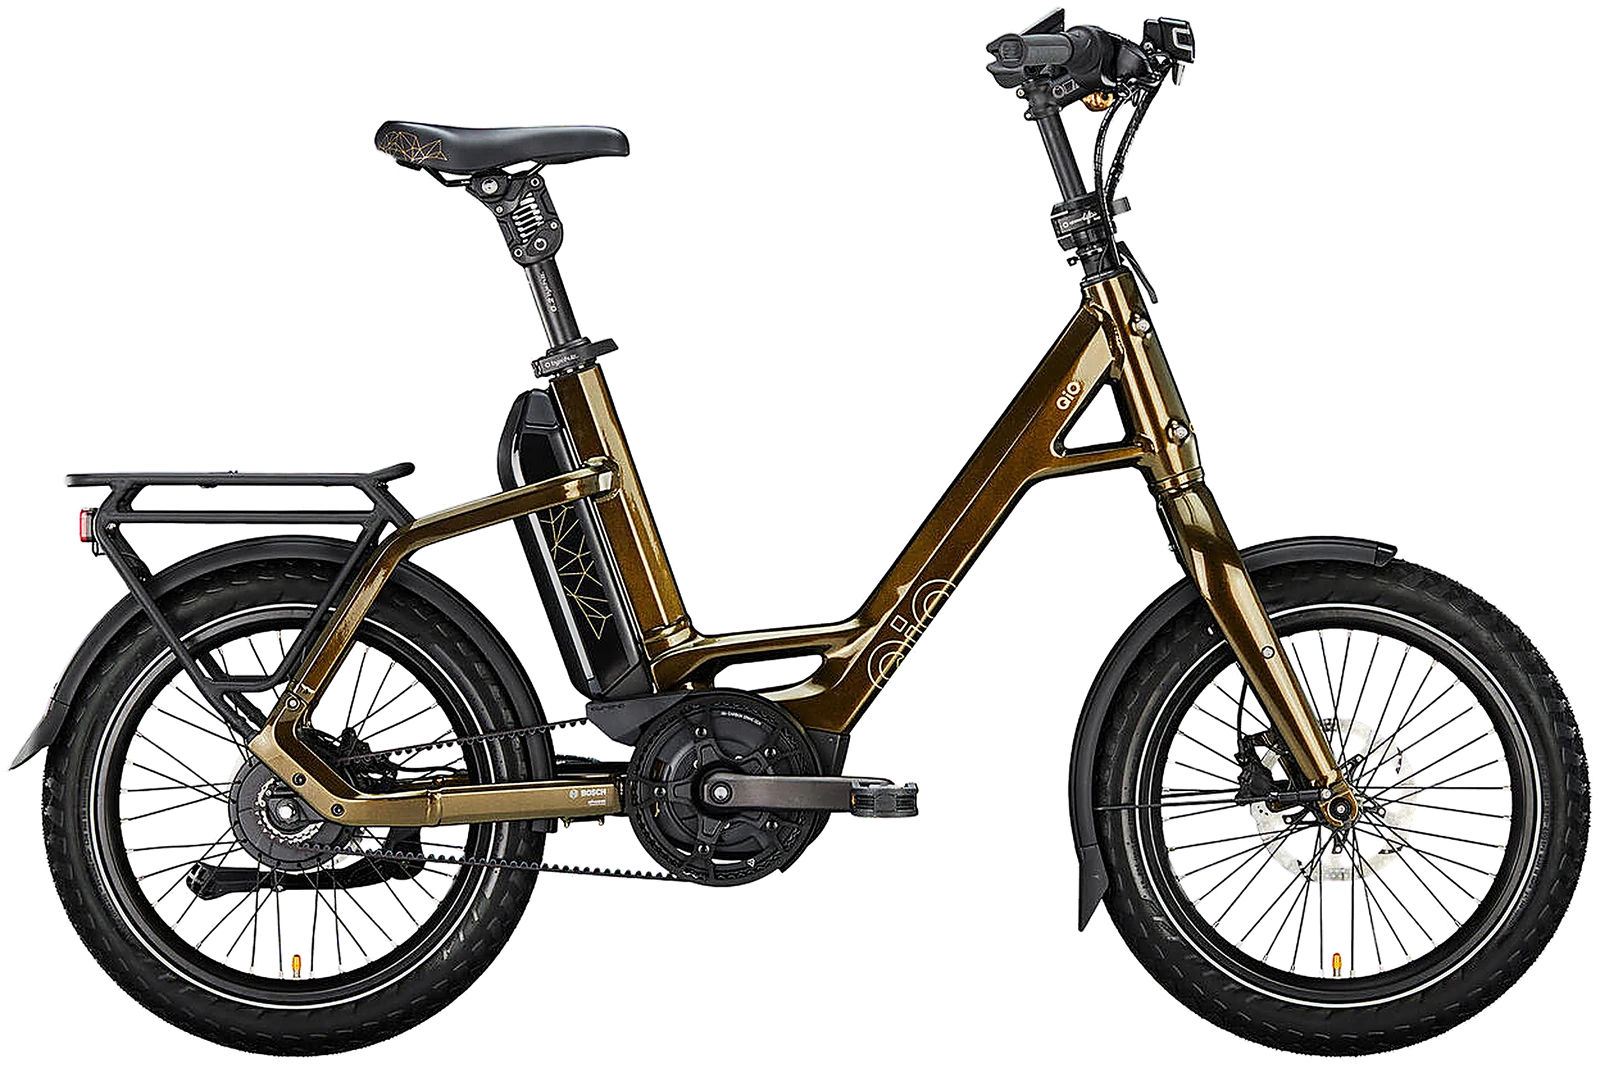
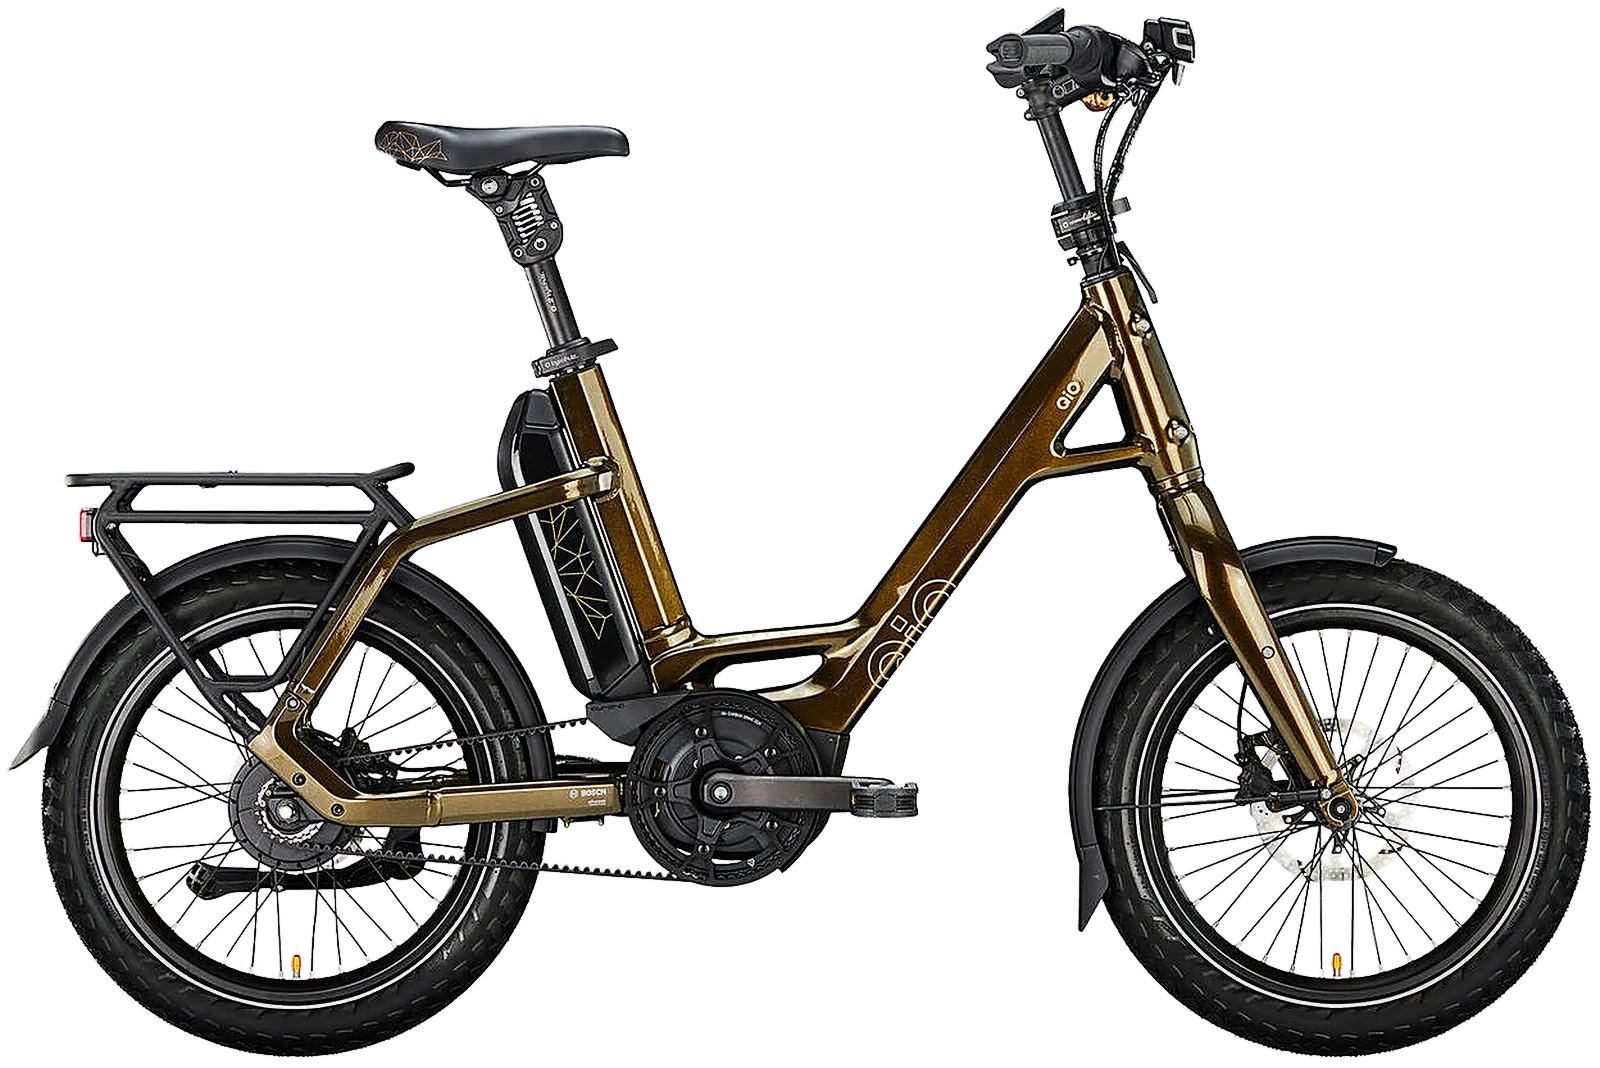
Homepage: Velo de Ville AEB PRO im Showroom, Showroom-Bilder bereinigt
Claude-Session: https://claude.ai/code/session_01AC3hVdMMJayFA5k58UgPiU

diff --git a/velocenter-homepage/index.html b/velocenter-homepage/index.html
@@ -2215,7 +2215,7 @@ m696 -454 c28 -13 46 -31 55 -51 22 -53 -50 -177 -173 -300 -187 -186 -647
      <img class="hb" src="img/p-isy.webp" alt="i:SY E-Kompaktrad" data-l="img/marke-isy.svg" width="1600" height="1104">
      <img class="hb off" src="img/p-ktm.webp" alt="KTM Macina E-Bike" data-l="img/marke-ktm.svg" width="1600" height="1006" loading="lazy">
      <img class="hb off" src="img/p-qio-eins-fineline.webp" alt="QiO EINS P-E Fine Line E-Kompaktrad" data-l="img/marke-qio.svg" width="1600" height="1068" loading="lazy">
-     <img class="hb off" src="img/p-vdv.webp" alt="Velo de Ville SEB Pro E-Bike" data-l="img/marke-vdv.svg" width="1463" height="899" loading="lazy">
+     <img class="hb off" src="img/p-vdv-aebpro.webp" alt="Velo de Ville AEB PRO E-Bike in French Lavender" data-l="img/marke-vdv.svg" width="2148" height="1344" loading="lazy">
      <img class="hb off" src="img/p-vanraam.webp" alt="Van Raam Easy Rider E-Dreirad" data-l="img/marke-vanraam.svg" width="1600" height="1193" loading="lazy">
      <img class="hb off" src="img/p-gudereit.webp" alt="Gudereit EC-35 Evo E-Bike" data-l="img/marke-gudereit.svg" width="1600" height="1128" loading="lazy">
      <img class="hb off" src="img/p-victoria-veloa7.webp" alt="Victoria Veloa 7 E-Bike" data-l="img/marke-victoria.svg" width="1385" height="866" loading="lazy">
@@ -2878,7 +2878,7 @@ const BR=[
  {k:'isy',n:'i:SY',m:'i:SY E5 ZR F CX Century',img:'img/p-isy.webp',logo:'img/marke-isy.svg',o:.3,c:'#FF7A1A',t:'Das 20-Zoll-Kompaktrad. Seit über 10 Jahren sind wir i:SY Experte und haben ständig über 100 i:SY vorrätig.',a:[['Mehr zu i:SY','#isy']]},
  {k:'ktm',n:'KTM',m:'KTM Macina Style 830',img:'img/p-ktm.webp',logo:'img/marke-ktm.svg',o:.13,c:'#FF6A00',t:'Traditionsmarke mit großer E-Bike-Auswahl, vom bequemen Tiefeinsteiger bis zum Trekking-Rad.',a:[['ktm-bikes.at','https://www.ktm-bikes.at/']]},
  {k:'qio',n:'QiO',m:'QiO EINS P-E Fine Line',img:'img/p-qio-eins-fineline.webp',logo:'img/marke-qio.svg',o:.12,c:'#38BDF8',t:'Innovatives Kompaktrad-Konzept. Am besten selbst erleben: Probefahrt bei uns im Laden.',a:[['qio-bikes.com','https://www.qio-bikes.com/']]},
- {k:'vdv',n:'Velo de Ville',m:'Velo de Ville SEB Pro',img:'img/p-vdv.webp',logo:'img/marke-vdv.svg',o:.16,c:'#F97316',t:'Rad nach Wunsch: Rahmen, Farbe und Ausstattung stellst du selbst zusammen.',a:[['Zum Konfigurator','https://konfigurator.velo-de-ville.com/de?h_ident=28181&direct=true']]},
+ {k:'vdv',n:'Velo de Ville',m:'Velo de Ville AEB PRO',img:'img/p-vdv-aebpro.webp',logo:'img/marke-vdv.svg',o:.16,c:'#F97316',t:'Rad nach Wunsch: Rahmen, Farbe und Ausstattung stellst du selbst zusammen.',a:[['Zum Konfigurator','https://konfigurator.velo-de-ville.com/de?h_ident=28181&direct=true']]},
  {k:'vanraam',n:'Van Raam',m:'Van Raam Easy Rider',img:'img/p-vanraam.webp',logo:'img/marke-vanraam.svg',o:.26,c:'#A855F7',t:'E-Dreiräder vom Weltmarktführer aus Holland. Bei uns: der Easy Rider.',a:[['Mehr zu E-Dreirädern','#dreirad']]},
  {k:'gudereit',n:'Gudereit',m:'Gudereit EC-35 Evo',img:'img/p-gudereit.webp',logo:'img/marke-gudereit.svg',o:.22,c:'#E2232D',t:'Bei uns das EC-35 Evo von Gudereit.',a:[['gudereit.de','https://www.gudereit.de/']]},
  {k:'victoria',n:'Victoria',m:'Victoria Veloa 7',img:'img/p-victoria-veloa7.webp',logo:'img/marke-victoria.svg',o:.24,c:'#22D3EE',t:'Traditionsmarke mit alltagstauglichen E-Bikes.',a:[['victoria-bikes.com','https://www.victoria-bikes.com/']]}
